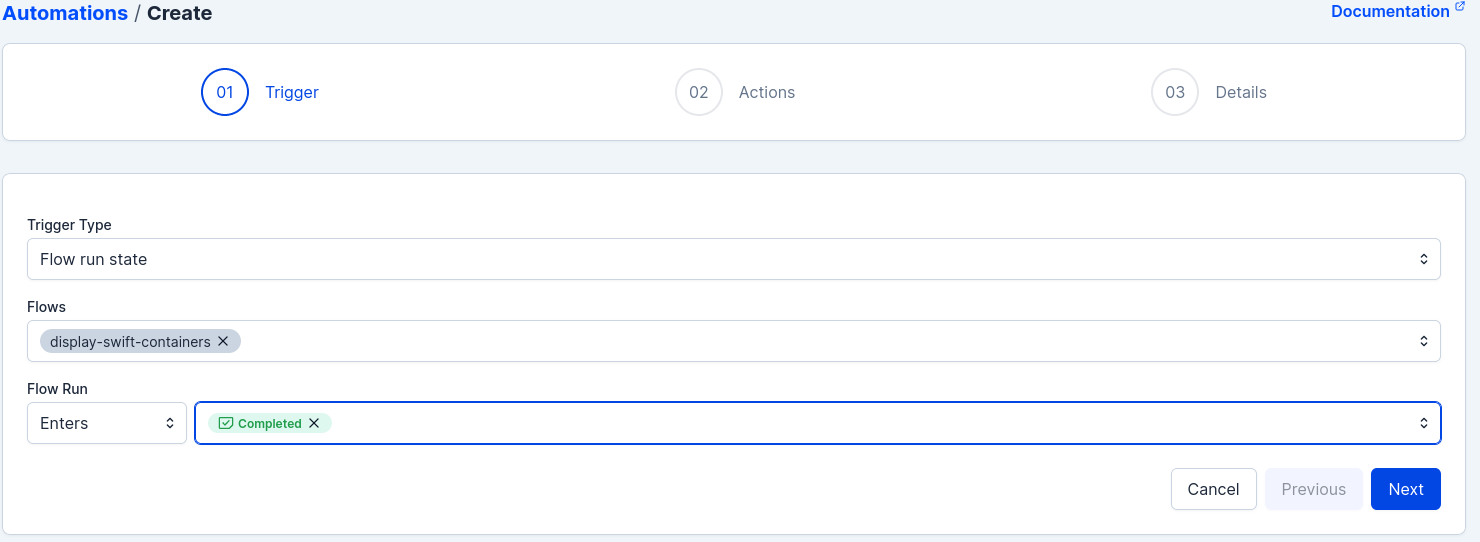
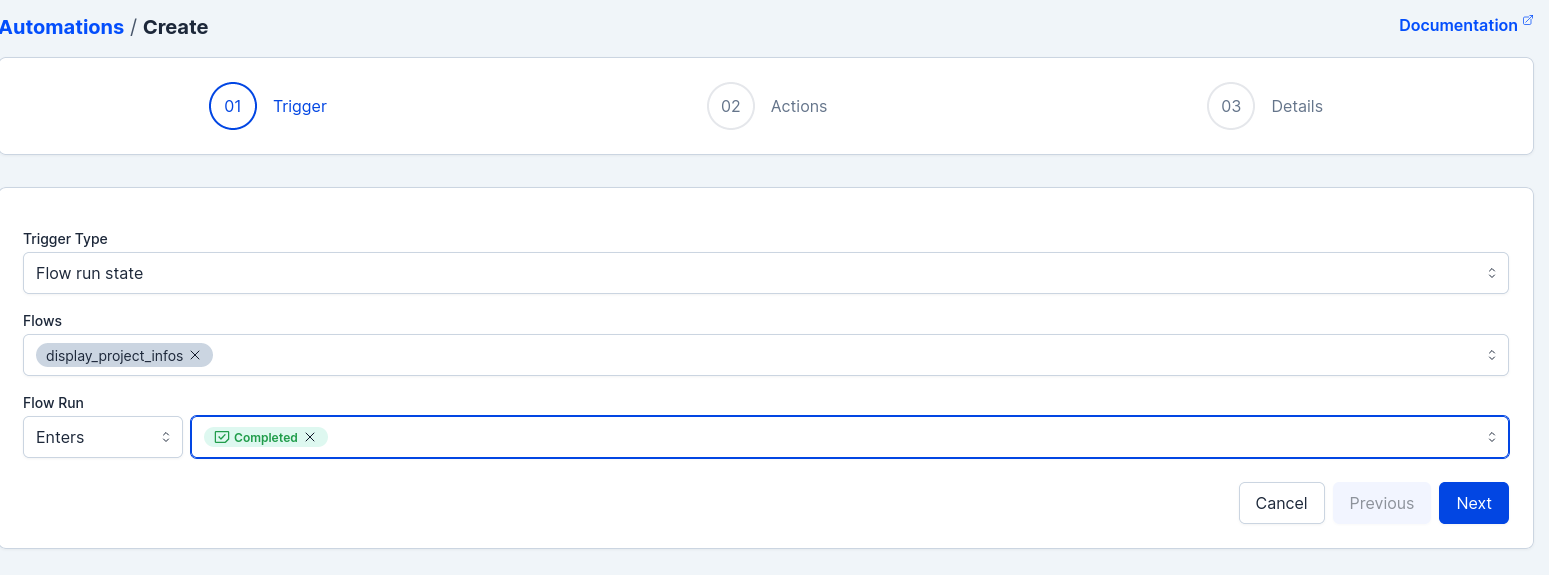
[temporary.py] change flows name

diff --git a/code/temporary.py b/code/temporary.py
@@ -1,13 +1,8 @@
 # Import the necessary libraries
-import ovh
 from prefect import flow, task, variables
 import json
 import basePrefect
 import initClient
-
-import os
-from dotenv import load_dotenv
-load_dotenv(".env")
 
 
 @flow
@@ -16,7 +11,7 @@ def test_credentials():
     return ovh_client.get('/me')['firstname']
 
 
-# Define the task to get all of your notebook
+# Define the task to get the informations of your project
 
 
 @task(name="get_infos",
@@ -30,17 +25,17 @@ def get_project_infos(client, projectUuid, username: str):
 
 
 # Define the flow to run on prefect
-@flow(name="test-prefect-with-OVHcloud", flow_run_name=basePrefect.generate_flow_name)
-def testPrefectWithOVHcloud(username: str):
+@flow(name="display_project_infos", flow_run_name=basePrefect.generate_flow_name)
+def display_project_infos(username: str):
 
     projectUuid = variables.get(
         "project_uiid", default="<your-project-uuid>")
 
     # Create the OVHcloud client
-    client = initClient.init_ovh(username="victor")
+    client = initClient.init_ovh(username=username)
     # This task print all your Public Cloud project infos
     get_project_infos(
-        client=client, projectUuid=projectUuid, username="victor")
+        client=client, projectUuid=projectUuid, username=username)
 
 
-testPrefectWithOVHcloud(username="victor")
+display_project_infos(username="victor")
